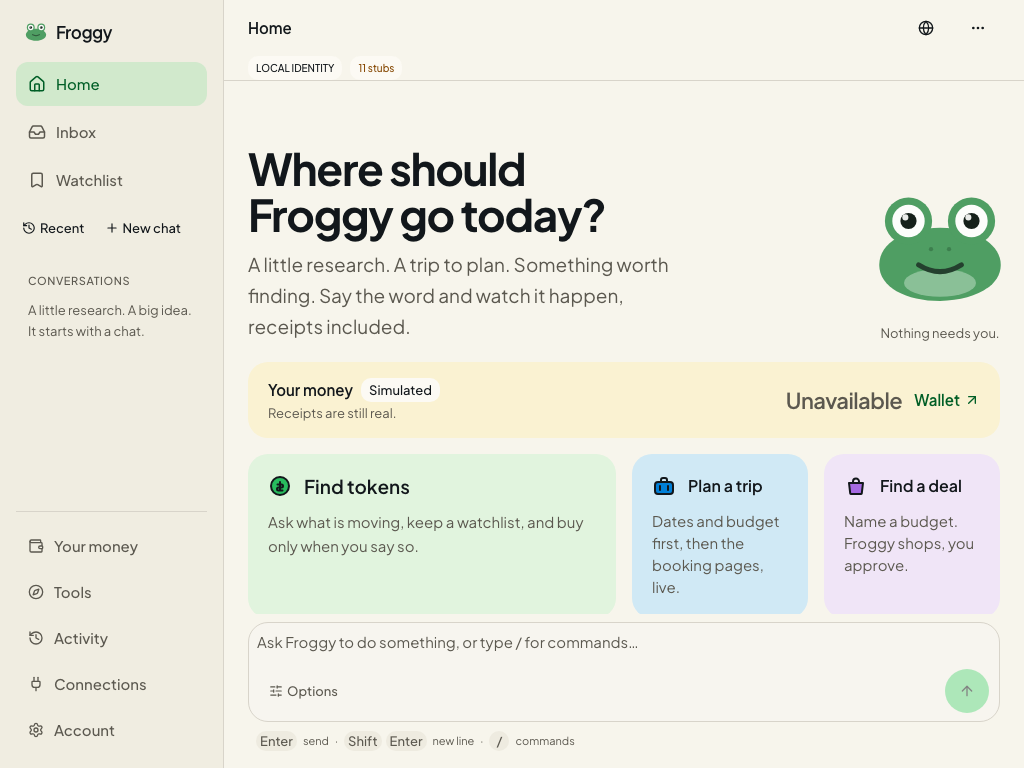
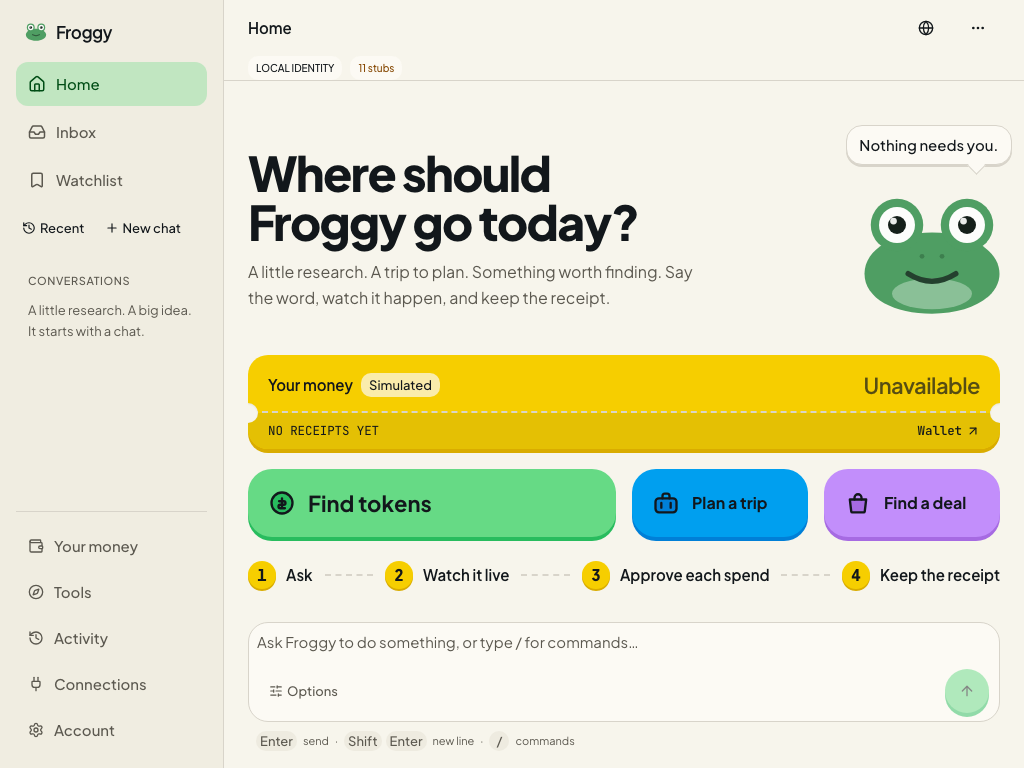
web: the question owns the row below the wide tier
The frog sits beside the lede instead of narrowing the headline; tiles
are title-only at the 1024 tier so nothing tucks under the composer.
Screenshots refreshed.

Claude-Session: https://claude.ai/code/session_01UaKPnFDgmWtwDiCvucuA4g

Changed region(s): [[0.2188, 0.1875, 1.0, 0.8125], [0.8125, 0.1875, 1.0, 0.2188], [0.9375, 0.9062, 0.9688, 0.9375]]

diff --git a/apps/web/src/components/stream/empty-state.tsx b/apps/web/src/components/stream/empty-state.tsx
@@ -166,23 +166,22 @@ export const EmptyState = ({
     data-slot="home-intro"
     className="short:gap-2 flex flex-1 flex-col gap-4 pt-1 sm:gap-5 sm:pt-3 xl:gap-6 xl:pt-6"
   >
-    <div className="grid grid-cols-[minmax(0,1fr)_auto] items-end gap-3 sm:gap-6">
-      <div className="min-w-0 pb-1">
-        <h1 className="font-display short:text-xl text-[1.85rem] leading-[1.02] font-extrabold tracking-[-0.035em] text-balance sm:text-[2.5rem] lg:text-[3rem] xl:text-[3.5rem]">
-          Where should Froggy go today?
-        </h1>
-        {/* A short phone keeps the question and the starters above the composer. */}
-        <p className="text-muted-foreground short:hidden mt-2 max-w-md text-sm leading-relaxed sm:mt-3 sm:text-base xl:text-lg">
-          A little research. A trip to plan. Something worth finding. Say the
-          word, watch it happen, and keep the receipt.
-        </p>
-      </div>
-      <figure className="short:hidden -mr-2 flex shrink-0 flex-col items-end gap-2.5 sm:-mr-3">
+    <div className="grid grid-cols-[minmax(0,1fr)_auto] items-end gap-x-3 gap-y-1 sm:gap-x-6">
+      {/* The question owns the full width until the wide tier; the frog sits beside the lede. */}
+      <h1 className="font-display short:text-xl col-span-2 text-[1.85rem] leading-[1.02] font-extrabold tracking-[-0.035em] text-balance sm:text-[2.75rem] lg:col-span-1 lg:text-[3rem] xl:text-[3.5rem]">
+        Where should Froggy go today?
+      </h1>
+      {/* A short phone keeps the question and the starters above the composer. */}
+      <p className="text-muted-foreground short:hidden mt-1 max-w-md self-start text-sm leading-relaxed sm:mt-2 sm:text-base xl:text-lg">
+        A little research. A trip to plan. Something worth finding. Say the
+        word, watch it happen, and keep the receipt.
+      </p>
+      <figure className="short:hidden -mr-2 flex shrink-0 flex-col items-end gap-2.5 sm:-mr-3 lg:col-start-2 lg:row-span-2 lg:row-start-1">
         <figcaption className="say hidden text-xs font-medium sm:block sm:text-sm">
           {copyForHome(waiting, busy)}
         </figcaption>
         <FrogMark
-          className="size-20 sm:size-32 lg:size-40 xl:size-44"
+          className="size-20 sm:size-28 lg:size-40 xl:size-44"
           data-slot="home-frog"
           pose={poseForHome(waiting, busy)}
         />
@@ -202,7 +201,7 @@ export const EmptyState = ({
             Find tokens
           </span>
         </span>
-        <span className="text-foreground/75 hidden max-w-sm text-sm leading-relaxed sm:block">
+        <span className="text-foreground/75 hidden max-w-sm text-sm leading-relaxed sm:block lg:hidden xl:block">
           Ask what is moving, keep a watchlist, and buy only when you say so.
         </span>
       </Link>
@@ -223,7 +222,7 @@ export const EmptyState = ({
             Plan a trip
           </span>
         </span>
-        <span className="text-foreground/75 hidden text-sm sm:block">
+        <span className="text-foreground/75 hidden text-sm sm:block lg:hidden xl:block">
           Dates and budget first, then the booking pages, live.
         </span>
       </button>
@@ -244,7 +243,7 @@ export const EmptyState = ({
             Find a deal
           </span>
         </span>
-        <span className="text-foreground/75 hidden text-sm sm:block">
+        <span className="text-foreground/75 hidden text-sm sm:block lg:hidden xl:block">
           Name a budget. Froggy shops, you approve.
         </span>
       </button>
